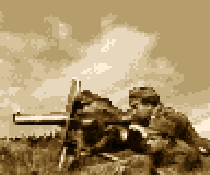
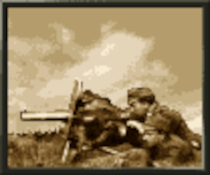
Unit panel complete, --> interface complete

diff --git a/hlrData.py b/hlrData.py
@@ -134,10 +134,10 @@ unitsParameters = 	{	'' 				:	None,
 												'sight'		: 3,
 												'fuel'		: 30,
 												'exp'		: 0,
-												'skills'	: [],
+												'skills'	: [1],
 												'weapons'	: ['gewehr98', 'lugerp08', 'bayonet' , None],
 												'icon'		: pygame.image.load('gfx/units/icons/infantry.png'),
-												'picture'	: pygame.image.load('gfx/units/pictures/eliteInfantry.png')
+												'picture'	: pygame.image.load('gfx/units/pictures/infantry.png')
 											},
 						'EC_infantry'	:	{	'name'		: 'Infantry',
 												'country'	: 'France',
@@ -147,10 +147,10 @@ unitsParameters = 	{	'' 				:	None,
 												'sight'		: 3,
 												'fuel'		: 30,
 												'exp'		: 0,
-												'skills'	: [],
+												'skills'	: [1],
 												'weapons'	: ['leeEnfield', 'revolveur', 'bayonet', None],
 												'icon'		 : pygame.image.load('gfx/units/icons/infantry.png'),
-												'picture'	: pygame.image.load('gfx/units/pictures/eliteInfantry.png')
+												'picture'	: pygame.image.load('gfx/units/pictures/infantry.png')
 											},
 						'CP_eliteInf'	:	{	'name'		: 'Elite Infantry',
 												'country'	: 'Germany',
@@ -160,7 +160,7 @@ unitsParameters = 	{	'' 				:	None,
 												'sight'		: 3,
 												'fuel'		: 30,
 												'exp'		: 0,
-												'skills'	: [],
+												'skills'	: [1],
 												'weapons'	: ['maxim', 'trenchKnife', None, None],
 												'icon'		 : pygame.image.load('gfx/units/icons/eliteInfantry.png'),
 												'picture'	: pygame.image.load('gfx/units/pictures/eliteInfantry.png')
@@ -173,7 +173,7 @@ unitsParameters = 	{	'' 				:	None,
 												'sight'		: 3,
 												'fuel'		: 30,
 												'exp'		: 0,
-												'skills'	: [],
+												'skills'	: [1],
 												'weapons'	: ['wickers', 'trenchKnife', None, None],
 												'icon' 		: pygame.image.load('gfx/units/icons/eliteInfantry.png'),
 												'picture'	: pygame.image.load('gfx/units/pictures/eliteInfantry.png')
@@ -187,10 +187,10 @@ unitsParameters = 	{	'' 				:	None,
 												'sight'		: 3,
 												'fuel'		: 50,
 												'exp'		: 0,
-												'skills'	: [],
+												'skills'	: [1],
 												'weapons'	: ['gewehr98', 'sabre', None, None],
 												'icon'		 : pygame.image.load('gfx/units/icons/cavalry.png'),
-												'picture'	: pygame.image.load('gfx/units/pictures/eliteInfantry.png')
+												'picture'	: pygame.image.load('gfx/units/pictures/cavalry.png')
 											},
 						'EC_cavalry'	:	{	'name'		: 'Cavalry',
 												'country'	: 'France',
@@ -200,10 +200,10 @@ unitsParameters = 	{	'' 				:	None,
 												'sight'		: 3,
 												'fuel'		: 50,
 												'exp'		: 0,
-												'skills'	: [],
+												'skills'	: [1],
 												'weapons'	: ['leeEnfield', 'sabre', None, None],
 												'icon'		 : pygame.image.load('gfx/units/icons/cavalry.png'),
-												'picture'	: pygame.image.load('gfx/units/pictures/eliteInfantry.png')
+												'picture'	: pygame.image.load('gfx/units/pictures/cavalry.png')
 											},
 						'CP_lArtillery'	:	{	'name'		: 'Light Artillery',
 												'country'	: 'Germany',
@@ -216,7 +216,7 @@ unitsParameters = 	{	'' 				:	None,
 												'skills'	: [],
 												'weapons'	: ['feldkanone16', None, None, None],
 												'icon'		 : pygame.image.load('gfx/units/icons/lightArtillery.png'),
-												'picture'	: pygame.image.load('gfx/units/pictures/eliteInfantry.png')
+												'picture'	: pygame.image.load('gfx/units/pictures/lightArtillery.png')
 											},
 						'EC_lArtillery'	:	{	'name'		: 'Light Artillery',
 												'country'	: 'France',
@@ -229,7 +229,7 @@ unitsParameters = 	{	'' 				:	None,
 												'skills'	: [],
 												'weapons'	: ['m1902', None, None, None],
 												'icon'		 : pygame.image.load('gfx/units/icons/lightArtillery.png'),
-												'picture'	: pygame.image.load('gfx/units/pictures/eliteInfantry.png')
+												'picture'	: pygame.image.load('gfx/units/pictures/lightArtillery.png')
 											},
 						'CP_mArtillery'	:	{	'name'		: 'Medium Artillery',
 												'country'	: 'Germany',
@@ -239,10 +239,10 @@ unitsParameters = 	{	'' 				:	None,
 												'sight'		: 2,
 												'fuel'		: 20,
 												'exp'		: 0,
-												'skills'	: [],
+												'skills'	: [5],
 												'weapons'	: ['lefh', None, None, None],
 												'icon'		 : pygame.image.load('gfx/units/icons/mediumArtillery.png'),
-												'picture'	: pygame.image.load('gfx/units/pictures/eliteInfantry.png')
+												'picture'	: pygame.image.load('gfx/units/pictures/mediumArtillery.png')
 											},
 						'EC_mArtillery'	:	{	'name'		: 'Medium Artillery',
 												'country'	: 'France',
@@ -252,10 +252,10 @@ unitsParameters = 	{	'' 				:	None,
 												'sight'		: 2,
 												'fuel'		: 20,
 												'exp'		: 0,
-												'skills'	: [],
+												'skills'	: [5],
 												'weapons'	: ['canon75', None, None, None],
 												'icon' 		: pygame.image.load('gfx/units/icons/mediumArtillery.png'),
-												'picture'	: pygame.image.load('gfx/units/pictures/eliteInfantry.png')
+												'picture'	: pygame.image.load('gfx/units/pictures/mediumArtillery.png')
 											},
 						'CP_hArtillery'	:	{	'name'		: 'Heavy Artillery',
 												'country'	: 'Germany',
@@ -265,10 +265,10 @@ unitsParameters = 	{	'' 				:	None,
 												'sight'		: 2,
 												'fuel'		: 20,
 												'exp'		: 0,
-												'skills'	: [],
+												'skills'	: [5],
 												'weapons'	: ['morser', None, None, None],
 												'icon'		 : pygame.image.load('gfx/units/icons/heavyArtillery.png'),
-												'picture'	: pygame.image.load('gfx/units/pictures/eliteInfantry.png')
+												'picture'	: pygame.image.load('gfx/units/pictures/heavyArtillery.png')
 											},
 						'EC_hArtillery'	:	{	'name'		: 'Heavy Artillery',
 												'country'	: 'France',
@@ -278,12 +278,12 @@ unitsParameters = 	{	'' 				:	None,
 												'sight'		: 2,
 												'fuel'		: 20,
 												'exp'		: 0,
-												'skills'	: [],
+												'skills'	: [5],
 												'weapons'	: ['canon155', None, None, None],
 												'icon'		 : pygame.image.load('gfx/units/icons/heavyArtillery.png'),
-												'picture'	: pygame.image.load('gfx/units/pictures/eliteInfantry.png')
+												'picture'	: pygame.image.load('gfx/units/pictures/heavyArtillery.png')
 											},
-						'CP_supplyCar' 	:	{	'name'		: 'SupplyCar',
+						'CP_supplyCar' 	:	{	'name'		: 'Supplycar',
 												'country'	: 'Germany',
 												'armour'	: 20,
 												'speed'		: 7,
@@ -294,9 +294,9 @@ unitsParameters = 	{	'' 				:	None,
 												'skills'	: [],
 												'weapons'	: [None, None, None, None],
 												'icon' 		: pygame.image.load('gfx/units/icons/supplyCar.png'),
-												'picture'	: pygame.image.load('gfx/units/pictures/eliteInfantry.png')
+												'picture'	: pygame.image.load('gfx/units/pictures/supplyCar.png')
 											},
-						'EC_supplyCar' 	:	{	'name'		: 'SupplyCar',
+						'EC_supplyCar' 	:	{	'name'		: 'Supplycar',
 												'country'	: 'France',
 												'armour'	: 20,
 												'speed'		: 7,
@@ -307,7 +307,7 @@ unitsParameters = 	{	'' 				:	None,
 												'skills'	: [],
 												'weapons'	: [None, None, None, None],
 												'icon'		 : pygame.image.load('gfx/units/icons/supplyCar.png'),
-												'picture'	: pygame.image.load('gfx/units/pictures/eliteInfantry.png')
+												'picture'	: pygame.image.load('gfx/units/pictures/supplyCar.png')
 											},
 						'CP_bunker'	 	:	{	'name'		: 'Bunker',
 												'country'	: 'Germany',
@@ -317,10 +317,10 @@ unitsParameters = 	{	'' 				:	None,
 												'sight'		: 1,
 												'fuel'		: 50,
 												'exp'		: 0,
-												'skills'	: [],
+												'skills'	: [7],
 												'weapons'	: ['feldkanone16', None, None, None],
 												'icon'		 : pygame.image.load('gfx/units/icons/bunker.png'),
-												'picture'	: pygame.image.load('gfx/units/pictures/eliteInfantry.png')
+												'picture'	: pygame.image.load('gfx/units/pictures/bunker.png')
 											},
 						'EC_bunker'	 	:	{	'name'		: 'Bunker',
 												'country'	: 'France',
@@ -330,10 +330,10 @@ unitsParameters = 	{	'' 				:	None,
 												'sight'		: 1,
 												'fuel'		: 50,
 												'exp'		: 0,
-												'skills'	: [],
+												'skills'	: [7],
 												'weapons'	: ['m1902', None, None, None],
 												'icon' 		: pygame.image.load('gfx/units/icons/bunker.png'),
-												'picture'	: pygame.image.load('gfx/units/pictures/eliteInfantry.png')
+												'picture'	: pygame.image.load('gfx/units/pictures/bunker.png')
 											}
 					}
 

diff --git a/level.py b/level.py
@@ -11,17 +11,6 @@ from hlrData import *
 
 colors = colorList
 developerMode = False
-# texts used on map
-movementModifierText = font20.render('Movement Penalty', True, colors.black)
-rMovementModifierText = movementModifierText.get_rect()
-rMovementModifierText.topleft = (1270, 445)
-battleModifierText = font20.render('Battle Advantage', True, colors.black)
-rBattleModifierText = battleModifierText.get_rect()
-rBattleModifierText.topleft = (1270, 475)
-sightModifierText = font20.render('Sight Hindrance', True, colors.black)
-rSightModifierText = sightModifierText.get_rect()
-rSightModifierText.topleft = (1270, 505)
-
 
 # --- Classes -------------------------------------------------------------------------------------
 
@@ -57,11 +46,11 @@ class Unit():
 			self.sight = data['sight']
 			self.fuel = data['fuel']
 			self.experience = 0
-			self.skills = []
+			self.skills = data['skills']
 			self.weapons = []
 			self.maxSize = 10		# all units size 10?
 			self.currentSize = 10
-			self.faction = 'CentralPowers' if self.country in ['Germany', 'Austria', 'Bulgaria', 'Ottoman'] else 'EntenteCordial'
+			self.faction = 'Central Powers' if self.country in ['Germany', 'Austria', 'Bulgaria', 'Ottoman'] else 'Entente Cordial'
 			for w in data['weapons']:
 				if w:
 					self.weapons.append(Weapon(w))
@@ -70,7 +59,7 @@ class Unit():
 			self.picture = data['picture']
 			rawIcon = data['icon']
 			# if central powers, rotate and colourize icon
-			if self.faction == 'CentralPowers':
+			if self.faction == 'Central Powers':
 				arr = pygame.surfarray.pixels3d(rawIcon)
 				for i in range(48):
 					for j in range(48): # loop over the 2d array
@@ -92,7 +81,7 @@ class Unit():
 								rot_center(rawIcon, 300), 
 								rawIcon
 							 ]
-			self.mapIcon = self.allIcons[2] if self.faction == 'CentralPowers' else self.allIcons[5]
+			self.mapIcon = self.allIcons[2] if self.faction == 'Central Powers' else self.allIcons[5]
 
 
 
@@ -141,8 +130,11 @@ class Map(list):
 		self.pixelWidth = self.squareWidth * 142
 		self.pixelHeight = self.squareHeight * 40
 		self.cursorGfx = pygame.image.load('gfx/cursor.png')
+		self.hexBorder = pygame.image.load('gfx/hexBorder.png')
+		self.skillsMarker = pygame.image.load('gfx/skills_marker.png')
 		self.progressBar = pygame.image.load('gfx/progressBar.png')
 		self.iProgressBar = pygame.image.load('gfx/progressBarI.png')
+		self.flags = pygame.image.load('gfx/flags.png')
 		self.noWeapon = pygame.image.load('gfx/weapons/empty.png')
 		self.ranksGfx = pygame.image.load('gfx/ranks.png')
 		self.unitPanel = pygame.image.load('gfx/unit_panel.png')
@@ -153,9 +145,9 @@ class Map(list):
 		self.cursorPos = [0,0]									# x,y index of cursor position on SCREEN, not on map!
 		self.mapView = [0, 0]										# the starting coordinates of the map
 		# texts
-		self.movementModifierText = [movementModifierText, rMovementModifierText]
-		self.battleModifierText = [battleModifierText, rBattleModifierText]
-		self.sightModifierText =  [sightModifierText, rSightModifierText]
+		self.movementModifierText = font20.render('Movement Penalty', True, colors.black) 	# [movementModifierText, rMovementModifierText]
+		self.battleModifierText = font20.render('Battle Advantage', True, colors.black)		#[battleModifierText, rBattleModifierText]
+		self.sightModifierText = font20.render('Sight Hindrance', True, colors.black)				# [sightModifierText, rSightModifierText]
 		for value in jsonLevelData['tiles'].values():
 			line = []
 			for square in value:
@@ -192,9 +184,9 @@ class Map(list):
 		self.parent.display.blit(self.backgroundTextureTerrain, (1128, 430))
 		pygame.draw.rect(self.parent.display, colors.almostBlack, (1124, 555, 662, 428), 4)						# lower window border
 		self.parent.display.blit(self.backgroundTextureUnit, (1128, 559))
-		self.parent.display.blit(*self.movementModifierText)
-		self.parent.display.blit(*self.battleModifierText)
-		self.parent.display.blit(*self.sightModifierText)
+		self.parent.display.blit(self.movementModifierText, (1270, 445))
+		self.parent.display.blit(self.battleModifierText, (1270, 475))
+		self.parent.display.blit(self.sightModifierText, (1270, 505))
 		self.parent.display.blit(self.cursorGfx, [self.parent.viewDsp[0] + (self.cursorPos[0] * 142 + forskydning) -12, self.parent.viewDsp[1] + (self.cursorPos[1] * 40) - 10])
 		return 1
 

diff --git a/main.py b/main.py
@@ -22,6 +22,7 @@ from hlrData import *
 
 version = '0.10'		# weapons done
 colors = colorList
+flagIndex = {'Germany' : 0, 'France' : 1}
 
 # --- Classes -------------------------------------------------------------------------------------
 
@@ -83,9 +84,9 @@ class Main():
 			self.test[1] += 1
 		# ------------------------------------- test end ---------------------------------------
 		elif keysPressed[pygame.K_PAGEUP]:
-			self.viewDsp[1] = 10
+			self.map.mapView = [0, 0]
 		elif keysPressed[pygame.K_PAGEDOWN]:
-			self.viewDsp[1] = -990
+			self.map.mapView = [0, 24]
 
 
 	def drawInfo(self):
@@ -95,7 +96,7 @@ class Main():
 		# terrain
 		self.display.blit(square.background, [1144, 446])
 		if square.infra:	self.display.blit(square.infra, [1144, 446])
-		self.display.blit(self.map.cursorGfx, [1132, 435])
+		self.display.blit(self.map.hexBorder, [1142, 444])
 		if square.movementModifier != None:
 			self.display.blit(self.map.progressBar, [1460, 444], (0, 0, square.movementModifier * 30, 20))
 		else:
@@ -112,16 +113,20 @@ class Main():
 			pygame.draw.rect(self.display, colors.almostBlack, (1124, 763, 662, 58), 4)							# weapons borders 1
 			pygame.draw.rect(self.display, colors.almostBlack, (1124, 871, 662, 58), 4)							# weapons borders 2
 			self.display.blit(self.map.unitSkills, [1750, 565])
+			self.display.blit(self.map.flags, [1156, 676], (flagIndex[square.unit.country] * 66, 0, 66, 66))
 			self.display.blit(self.map.ranksGfx, [1156, 676], (square.unit.experience * 66, 0, 66, 66))
 			self.display.blit(square.unit.picture, [1522, 573])
-
-
-
-
-
-
-
-
+			gfx = font20.render(square.unit.name, True, (208, 185, 140)); self.display.blit(gfx, [1380 - (gfx.get_width() / 2), 575])
+			gfx = font20.render(square.unit.faction, True, (208, 185, 140)); self.display.blit(gfx, [1380 - (gfx.get_width() / 2), 610])
+			gfx = font20.render(str(square.unit.sight), True, (208, 185, 140)); self.display.blit(gfx, [1318 - (gfx.get_width() / 2), 662])
+			gfx = font20.render(str(square.unit.speed), True, (208, 185, 140)); self.display.blit(gfx, [1392 - (gfx.get_width() / 2), 662])
+			gfx = font20.render(str(square.unit.currentSize), True, (208, 185, 140)); self.display.blit(gfx, [1462 - (gfx.get_width() / 2), 662])
+			gfx = font20.render(str(square.unit.armour), True, (208, 185, 140)); self.display.blit(gfx, [1318 - (gfx.get_width() / 2), 712])
+			gfx = font20.render(str(square.unit.weight), True, (208, 185, 140)); self.display.blit(gfx, [1392 - (gfx.get_width() / 2), 712])
+			gfx = font20.render(str(square.unit.fuel), True, (208, 185, 140)); self.display.blit(gfx, [1462 - (gfx.get_width() / 2), 712])
+			# mark active skills
+			for x in square.unit.skills:
+				self.display.blit(self.map.skillsMarker, [1748, 535 + (x * 28)])
 			# weapons
 			yCoords = [767, 821, 875, 929]			
 			for y in range(4):
@@ -160,7 +165,10 @@ class Main():
 			self.map.draw()
 			self.drawInfo()
 			pygame.display.update()
-			self.renderList = []
+
+
+			print(self.map.cursorPos, self.map.mapView)
+
 		pygame.quit()
 		print('\n  Game terminated gracefully\n')
 
